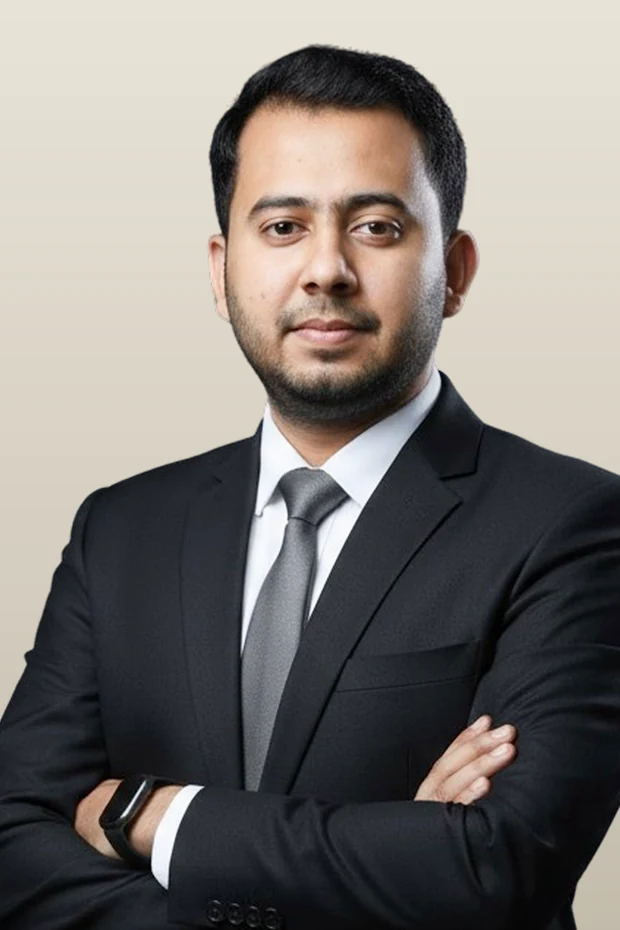
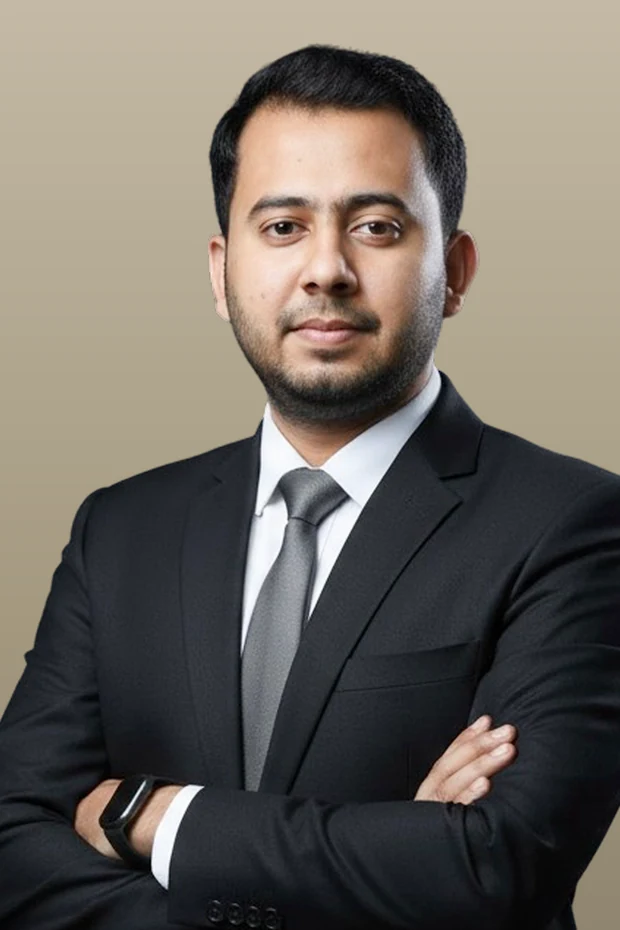
Stop the room lighting washing out the picture, and the sofa moiré
The photograph was disappearing into the wall. Sampled off the render, its
backdrop came out at #e8e6df against a #f1f1f1 wall — the frame read as an
empty black rectangle with a face somewhere in it. Three causes, all fixed:

The studio sweep behind the subject was authored light, on the reasoning
that a black suit needs a light ground. But it hangs on white plaster, so
pale-on-pale. It is a mid warm grey now, which separates from both the wall
behind and the suit in front.

The mount board was near-white for the same reason and had the same
problem; it is warmer and a step darker.

And the print itself was an ordinary standard material, so it took all four
ceiling lights, the sky and the bounce at full strength. A print is not a
lit surface the way a wall is: the map is held down and the environment
contribution mostly removed, so the photograph keeps its own values instead
of the room's. Re-measured in place, the backdrop now renders #aca798, the
face #ccbcb2, the suit #31353a and the moulding #0d0f13 — a full range
against a #eff0ef wall.

Separately, the dotted pattern crawling on the sofa arms. A box's UVs run
0..1 on every face whatever that face measures, so one repeat covered both
the 4.4-wide seat and the 0.3-wide arm — and at 4 x 3 the arm was packing
four tiles of leather grain into 300mm, far past what the pixels can carry.
It aliased into a fixed dot grid. Lower frequency and a gentler normal cost
[…]

diff --git a/src/scene/parts.tsx b/src/scene/parts.tsx
@@ -285,13 +285,34 @@ export function Artwork({
         <boxGeometry args={[w + (mat + lip) * 2, h + (mat + lip) * 2, 0.05]} />
         <meshStandardMaterial color={moulding} roughness={0.35} metalness={0.15} />
       </mesh>
+      {/* Mount board. Warm rather than white: these hang on white plaster, and
+          a white mount between a white wall and the picture gives the frame no
+          edge to read against at all. */}
       <mesh position={[0, 0, 0.026]}>
         <boxGeometry args={[w + mat * 2, h + mat * 2, 0.012]} />
-        <meshStandardMaterial color="#F4F1E9" roughness={0.95} />
+        <meshStandardMaterial
+          color="#CFC6B2"
+          roughness={0.98}
+          envMapIntensity={0.35}
+        />
       </mesh>
+
+      {/* The picture itself.
+          A print is not a lit surface in the way a wall is. Left as an ordinary
+          standard material it took the room's four ceiling lights, the sky and
+          the bounce all at full strength, and a backdrop authored at #A3987F
+          came out of the renderer at #e8e6df — against a #f1f1f1 wall, which
+          is to say it vanished, and the face with it. Holding the map down and
+          taking it most of the way off the environment lets the photograph keep
+          its own values instead of the room's. */}
       <mesh position={[0, 0, 0.034]}>
         <planeGeometry args={[w, h]} />
-        <meshStandardMaterial map={map} roughness={0.62} />
+        <meshStandardMaterial
+          map={map}
+          color="#8C8C8C"
+          roughness={0.96}
+          envMapIntensity={0.3}
+        />
       </mesh>
     </group>
   );

diff --git a/src/scene/Villa.tsx b/src/scene/Villa.tsx
@@ -43,7 +43,15 @@ export default function Villa({ night }: { night: boolean }) {
   const grass = useTiled('grass', [58, 58]);
   const bark = useTiled('bark', [2, 5]);
   const plaster = useTiled('plaster', [8, 4]);
-  const fabric = useSurface([4, 3], 'fabric', 0.6);
+  /**
+   * Repeat kept low on purpose. A box's UVs run 0..1 on every face whatever
+   * that face measures, so one repeat covers both the sofa's 4.4-wide seat and
+   * its 0.3-wide arm — and at 4 x 3 the arm was packing four tiles of leather
+   * grain into 300mm. Far past what the pixels can carry, so it aliased into a
+   * fixed dot grid that crawled as the camera moved. Lower frequency and a
+   * gentler normal cost nothing on the large panels and settle the small ones.
+   */
+  const fabric = useSurface([1.8, 1.4], 'fabric', 0.3);
   const carpet = useSurface([5, 4], 'carpet', 0.8);
   const marble = useTiled('marble', [2, 2]);
   const art = useArt();
